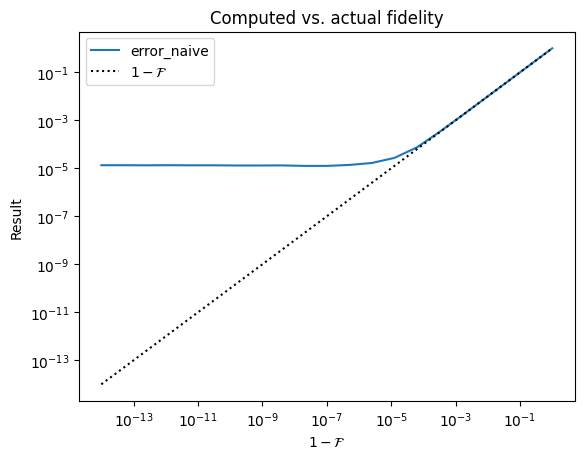
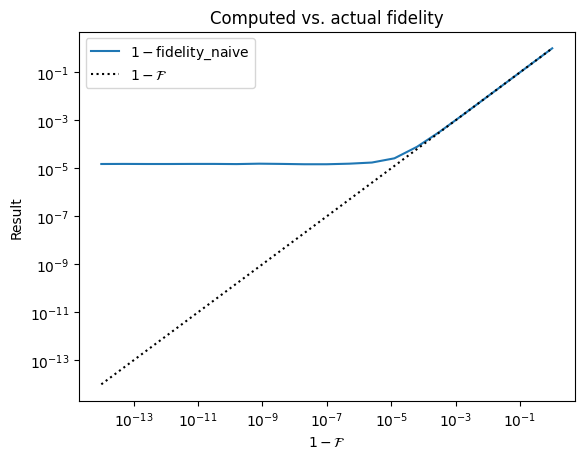
update blog  - add estimated read time  - update fidelity post

diff --git a/blog/posts/stable_fidelity/index.html b/blog/posts/stable_fidelity/index.html
@@ -191,6 +191,12 @@ window.Quarto = {
       </div>
     </div>
     
+      <div>
+      <div class="quarto-title-meta-heading">Modified</div>
+      <div class="quarto-title-meta-contents">
+        <p class="date-modified">October 24, 2024</p>
+      </div>
+    </div>
       
     </div>
     
@@ -216,16 +222,29 @@ TL;DR
 </div>
 </div>
 <div class="callout-body-container callout-body">
-<p>For two states <span class="math inline">\(\ket{a}\)</span> and <span class="math inline">\(\ket{b}\)</span>, let <span class="math inline">\(c = \braket{a|b}/|\braket{a|b}|\)</span> and <span class="math inline">\(e = |c\ket{a} - \ket{b}|^2\)</span> (the norm squared of the difference vector between <span class="math inline">\(c\ket{a}\)</span> and <span class="math inline">\(\ket{b}\)</span>). Then the fidelity <span class="math inline">\(\mathcal{F} = |\braket{a|b}|^2\)</span> can be computed with good numerical precision as <span class="math display">\[1 - \mathcal{F} = e - e^2/4\]</span></p>
+<p>For two states <span class="math inline">\(\ket{a}\)</span> and <span class="math inline">\(\ket{b}\)</span>, let <span class="math inline">\(c = \braket{a|b}/|\braket{a|b}|\)</span> and <span class="math inline">\(e = |c\ket{a} - \ket{b}|^2\)</span> (the norm squared of the difference vector between <span class="math inline">\(c\ket{a}\)</span> and <span class="math inline">\(\ket{b}\)</span>). Then the fidelity <span class="math inline">\(\mathcal{F} = |\braket{a|b}|^2\)</span> can be computed with good numerical precision as <span class="math display">\[\mathcal{F} = (1 - e/2)^2\]</span></p>
 </div>
 </div>
-<p>Suppose we want to examine the fidelity <span class="math inline">\(\mathcal{F} = |\braket{a|b}|^2\)</span> of two quantum states <span class="math inline">\(\ket{a}\)</span> and <span class="math inline">\(\ket{b}\)</span>, stored as vectors of complex numbers. If <span class="math inline">\(\ket{a}\)</span> and <span class="math inline">\(\ket{b}\)</span> are very close, it is more convenient to study the “error” <span class="math inline">\(\epsilon = 1-\mathcal{F}\)</span> rather than the fidelity itself. However, computing this value in the obvious way runs into problems with floating-point precision. Here’s a straightforward function computing <span class="math inline">\(1-\mathcal{F}\)</span>:</p>
-<div id="397ff548-795f-4f16-97f5-c76c3f201c5f" class="cell" data-execution_count="2">
-<div class="sourceCode cell-code" id="cb1"><pre class="sourceCode python code-with-copy"><code class="sourceCode python"><span id="cb1-1"><a href="#cb1-1" aria-hidden="true" tabindex="-1"></a><span class="kw">def</span> error_naive(a, b):</span>
-<span id="cb1-2"><a href="#cb1-2" aria-hidden="true" tabindex="-1"></a>    <span class="cf">return</span> <span class="dv">1</span> <span class="op">-</span> np.<span class="bu">abs</span>(np.vdot(a, b))<span class="op">**</span><span class="dv">2</span></span></code><button title="Copy to Clipboard" class="code-copy-button"><i class="bi"></i></button></pre></div>
+<div class="callout callout-style-default callout-note callout-titled">
+<div class="callout-header d-flex align-content-center">
+<div class="callout-icon-container">
+<i class="callout-icon"></i>
 </div>
-<p>Let’s try plotting the measured fidelity vs.&nbsp;actual fidelity, for a range of fidelities very close to 1:</p>
-<div id="94af671f-f95e-4ec8-a765-7c8818af27df" class="cell" data-execution_count="3">
+<div class="callout-title-container flex-fill">
+Note
+</div>
+</div>
+<div class="callout-body-container callout-body">
+<p>Some authors, including Nielsen and Chuang in their textbook, define the fidelity as <span class="math inline">\(\mathcal{F}' = |\braket{a|b}|\)</span>, which is the square root of the definition used in this blog post. The technique presented here can easily be adapted to that definition, as <span class="math inline">\(\mathcal{F}' = 1-e/2\)</span>.</p>
+</div>
+</div>
+<p>Suppose we want to examine the fidelity <span class="math inline">\(\mathcal{F} = |\braket{a|b}|^2\)</span> of two quantum states <span class="math inline">\(\ket{a}\)</span> and <span class="math inline">\(\ket{b}\)</span>, stored as vectors of complex numbers. If <span class="math inline">\(\ket{a}\)</span> and <span class="math inline">\(\ket{b}\)</span> are very close, computing this value in the obvious way runs into problems with floating-point precision, as we will find with this straightforward function for the fidelity:</p>
+<div id="397ff548-795f-4f16-97f5-c76c3f201c5f" class="cell" data-execution_count="1">
+<div class="sourceCode cell-code" id="cb1"><pre class="sourceCode python code-with-copy"><code class="sourceCode python"><span id="cb1-1"><a href="#cb1-1" aria-hidden="true" tabindex="-1"></a><span class="kw">def</span> fidelity_naive(a, b):</span>
+<span id="cb1-2"><a href="#cb1-2" aria-hidden="true" tabindex="-1"></a>    <span class="cf">return</span> np.<span class="bu">abs</span>(np.vdot(a, b))<span class="op">**</span><span class="dv">2</span></span></code><button title="Copy to Clipboard" class="code-copy-button"><i class="bi"></i></button></pre></div>
+</div>
+<p>Let’s try plotting the measured fidelity vs.&nbsp;actual fidelity, for a range of fidelities very close to 1. (Here we plot the difference from 1, so that we can see the results easily on a log plot).</p>
+<div id="94af671f-f95e-4ec8-a765-7c8818af27df" class="cell" data-execution_count="2">
 <details class="code-fold">
 <summary>Code</summary>
 <div class="sourceCode cell-code" id="cb2"><pre class="sourceCode python code-with-copy"><code class="sourceCode python"><span id="cb2-1"><a href="#cb2-1" aria-hidden="true" tabindex="-1"></a><span class="im">import</span> numpy <span class="im">as</span> np</span>
@@ -248,18 +267,18 @@ TL;DR
 <span id="cb2-18"><a href="#cb2-18" aria-hidden="true" tabindex="-1"></a></span>
 <span id="cb2-19"><a href="#cb2-19" aria-hidden="true" tabindex="-1"></a>    <span class="cf">return</span> a, b</span>
 <span id="cb2-20"><a href="#cb2-20" aria-hidden="true" tabindex="-1"></a></span>
-<span id="cb2-21"><a href="#cb2-21" aria-hidden="true" tabindex="-1"></a><span class="kw">def</span> plot_error_measure(dimension, x_min, x_max, n_pts, error_funcs):</span>
+<span id="cb2-21"><a href="#cb2-21" aria-hidden="true" tabindex="-1"></a><span class="kw">def</span> plot_fidelity_measure(dimension, x_min, x_max, n_pts, fidelity_funcs):</span>
 <span id="cb2-22"><a href="#cb2-22" aria-hidden="true" tabindex="-1"></a>    a, b <span class="op">=</span> generate_random_orthogonal_vectors(dimension)</span>
 <span id="cb2-23"><a href="#cb2-23" aria-hidden="true" tabindex="-1"></a>    </span>
 <span id="cb2-24"><a href="#cb2-24" aria-hidden="true" tabindex="-1"></a>    pts <span class="op">=</span> np.geomspace(x_min, x_max, n_pts)</span>
 <span id="cb2-25"><a href="#cb2-25" aria-hidden="true" tabindex="-1"></a></span>
-<span id="cb2-26"><a href="#cb2-26" aria-hidden="true" tabindex="-1"></a>    <span class="cf">for</span> error_func <span class="kw">in</span> error_funcs:</span>
+<span id="cb2-26"><a href="#cb2-26" aria-hidden="true" tabindex="-1"></a>    <span class="cf">for</span> fidelity_func <span class="kw">in</span> fidelity_funcs:</span>
 <span id="cb2-27"><a href="#cb2-27" aria-hidden="true" tabindex="-1"></a>        results <span class="op">=</span> []</span>
 <span id="cb2-28"><a href="#cb2-28" aria-hidden="true" tabindex="-1"></a>        <span class="cf">for</span> target_err <span class="kw">in</span> pts:</span>
 <span id="cb2-29"><a href="#cb2-29" aria-hidden="true" tabindex="-1"></a>            c <span class="op">=</span> np.sqrt(target_err)<span class="op">*</span>b <span class="op">+</span> np.sqrt(<span class="dv">1</span><span class="op">-</span>target_err)<span class="op">*</span>a</span>
-<span id="cb2-30"><a href="#cb2-30" aria-hidden="true" tabindex="-1"></a>            results.append(error_func(a, c))</span>
+<span id="cb2-30"><a href="#cb2-30" aria-hidden="true" tabindex="-1"></a>            results.append(fidelity_func(a, c))</span>
 <span id="cb2-31"><a href="#cb2-31" aria-hidden="true" tabindex="-1"></a></span>
-<span id="cb2-32"><a href="#cb2-32" aria-hidden="true" tabindex="-1"></a>        plt.loglog(pts, results, label<span class="op">=</span>error_func.<span class="va">__name__</span>)</span>
+<span id="cb2-32"><a href="#cb2-32" aria-hidden="true" tabindex="-1"></a>        plt.loglog(pts, <span class="dv">1</span><span class="op">-</span>np.array(results), label<span class="op">=</span><span class="vs">r"$1 - $"</span><span class="op">+</span>fidelity_func.<span class="va">__name__</span>)</span>
 <span id="cb2-33"><a href="#cb2-33" aria-hidden="true" tabindex="-1"></a>    </span>
 <span id="cb2-34"><a href="#cb2-34" aria-hidden="true" tabindex="-1"></a>    plt.loglog(pts, pts, color<span class="op">=</span><span class="st">'k'</span>, linestyle<span class="op">=</span><span class="st">':'</span>, label<span class="op">=</span><span class="vs">r'$1 - \mathcal</span><span class="sc">{F}</span><span class="vs">$'</span>)</span>
 <span id="cb2-35"><a href="#cb2-35" aria-hidden="true" tabindex="-1"></a></span>
@@ -270,12 +289,12 @@ TL;DR
 <span id="cb2-40"><a href="#cb2-40" aria-hidden="true" tabindex="-1"></a></span>
 <span id="cb2-41"><a href="#cb2-41" aria-hidden="true" tabindex="-1"></a>    plt.legend()</span>
 <span id="cb2-42"><a href="#cb2-42" aria-hidden="true" tabindex="-1"></a></span>
-<span id="cb2-43"><a href="#cb2-43" aria-hidden="true" tabindex="-1"></a>plot_error_measure(</span>
+<span id="cb2-43"><a href="#cb2-43" aria-hidden="true" tabindex="-1"></a>plot_fidelity_measure(</span>
 <span id="cb2-44"><a href="#cb2-44" aria-hidden="true" tabindex="-1"></a>    dimension<span class="op">=</span><span class="dv">2</span><span class="op">**</span><span class="dv">20</span>, </span>
 <span id="cb2-45"><a href="#cb2-45" aria-hidden="true" tabindex="-1"></a>    x_min<span class="op">=</span><span class="fl">1E-14</span>, </span>
 <span id="cb2-46"><a href="#cb2-46" aria-hidden="true" tabindex="-1"></a>    x_max<span class="op">=</span><span class="dv">1</span>, </span>
 <span id="cb2-47"><a href="#cb2-47" aria-hidden="true" tabindex="-1"></a>    n_pts<span class="op">=</span><span class="dv">21</span>, </span>
-<span id="cb2-48"><a href="#cb2-48" aria-hidden="true" tabindex="-1"></a>    error_funcs<span class="op">=</span>[error_naive]</span>
+<span id="cb2-48"><a href="#cb2-48" aria-hidden="true" tabindex="-1"></a>    fidelity_funcs<span class="op">=</span>[fidelity_naive]</span>
 <span id="cb2-49"><a href="#cb2-49" aria-hidden="true" tabindex="-1"></a>)</span></code><button title="Copy to Clipboard" class="code-copy-button"><i class="bi"></i></button></pre></div>
 </details>
 <div class="cell-output cell-output-display">
@@ -286,38 +305,40 @@ TL;DR
 </div>
 </div>
 </div>
-<p>The reason for the discrepancy is that in the inner product, we are summing values <span class="math inline">\(a_i^\dagger b_i\)</span> that have magnitude <span class="math inline">\(\mathcal{O}(1/d)\)</span>, but the “important part” of each term (that prevents the sum from being exactly 1) is of order <span class="math inline">\(\mathcal{O}(\epsilon/d)\)</span>. If <span class="math inline">\(\epsilon\)</span> is very small, this “content” will be lost to floating point errors. Instead, we’d like to figure out a way to sum that content we care about directly.</p>
+<p>The reason for the discrepancy is that in the inner product, we are summing values <span class="math inline">\(a_i^* b_i\)</span> that have magnitude <span class="math inline">\(\mathcal{O}(1/d)\)</span>, but the “important part” of each term (that prevents the sum from being exactly 1) is of order <span class="math inline">\(\mathcal{O}(\epsilon/d)\)</span>, where <span class="math inline">\(\epsilon = 1-\mathcal{F}\)</span>. If <span class="math inline">\(\epsilon\)</span> is very small, this “content” will be lost to floating point errors. Instead, we’d like to figure out a way to sum that content we care about directly.</p>
 <p>Consider the following fact: <span class="math display">\[
 |\ket{a}-\ket{b}|^2 = 2 - 2\mathrm{Re}\left[ \braket{a | b} \right]
-\]</span> So, the square of the norm of the difference gives the ~vibes~ of <span class="math inline">\(\sqrt{\epsilon} = |\braket{a|b}|\)</span>, except it cares about the relative phase between <span class="math inline">\(\ket{a}\)</span> and <span class="math inline">\(\ket{b}\)</span>. The upside is that it should be numerically stable to compute, because the elements of the difference vector will be of order <span class="math inline">\(\mathcal{O}(\epsilon/d)\)</span>. The key idea is that we can use it to measure <span class="math inline">\(\epsilon\)</span> if we ensure there is no relative phase between <span class="math inline">\(\ket{a}\)</span> and <span class="math inline">\(\ket{b}\)</span>.</p>
+\]</span> So, the square of the norm of the difference gives the ~vibes~ of <span class="math inline">\(1 - \left|\braket{a|b}\right|\)</span>, except it cares about the relative phase between <span class="math inline">\(\ket{a}\)</span> and <span class="math inline">\(\ket{b}\)</span>. The upshot is that it should be numerically stable to compute, because the elements of the difference vector will be of order <span class="math inline">\(\mathcal{O}(\epsilon/d)\)</span>. The key idea is that we can use it to measure <span class="math inline">\(|\braket{a|b}|\)</span> if we ensure there is no relative phase between <span class="math inline">\(\ket{a}\)</span> and <span class="math inline">\(\ket{b}\)</span>.</p>
 <p>Let <span class="math inline">\(c = \braket{a|b}/|\braket{a|b}|\)</span>. Then by construction <span class="math inline">\(\braket{c a | b} = |\braket{a | b}| = \mathrm{Re}\left[ \braket{c a | b} \right]\)</span>. Combining this with the above, we may define <span class="math inline">\(e = |c \ket{a}-\ket{b}|^2\)</span> and then: <span class="math display">\[
 |\braket{a | b}| = 1 - e/2
 \]</span> and thus <span class="math display">\[
-1-\mathcal{F} = 1 - |\braket{a|b}|^2 = e - e^2/4
+\mathcal{F} = |\braket{a|b}|^2 = (1 - e/2)^2
+\]</span> or, if we’re interested in the difference from 1, <span class="math display">\[
+1-\mathcal{F} = e - e^2/4
 \]</span> This is an exact expression (we didn’t use any approximations to get it), but it also will not suffer from numerical instability for values close to zero.</p>
 <p>Pretty cool! Let’s try it:</p>
-<div id="2bcad248-6ebc-4856-b309-7871ab7c28a3" class="cell" data-execution_count="6">
-<div class="sourceCode cell-code" id="cb3"><pre class="sourceCode python code-with-copy"><code class="sourceCode python"><span id="cb3-1"><a href="#cb3-1" aria-hidden="true" tabindex="-1"></a><span class="kw">def</span> error_precise(a, b):</span>
+<div id="2bcad248-6ebc-4856-b309-7871ab7c28a3" class="cell" data-execution_count="3">
+<div class="sourceCode cell-code" id="cb3"><pre class="sourceCode python code-with-copy"><code class="sourceCode python"><span id="cb3-1"><a href="#cb3-1" aria-hidden="true" tabindex="-1"></a><span class="kw">def</span> fidelity_precise(a, b):</span>
 <span id="cb3-2"><a href="#cb3-2" aria-hidden="true" tabindex="-1"></a>    inner_prod <span class="op">=</span> np.vdot(a, b)</span>
 <span id="cb3-3"><a href="#cb3-3" aria-hidden="true" tabindex="-1"></a></span>
 <span id="cb3-4"><a href="#cb3-4" aria-hidden="true" tabindex="-1"></a>    <span class="co"># to avoid division by zero</span></span>
 <span id="cb3-5"><a href="#cb3-5" aria-hidden="true" tabindex="-1"></a>    <span class="cf">if</span> inner_prod <span class="op">==</span> <span class="dv">0</span>:</span>
-<span id="cb3-6"><a href="#cb3-6" aria-hidden="true" tabindex="-1"></a>        <span class="cf">return</span> <span class="fl">1.0</span></span>
+<span id="cb3-6"><a href="#cb3-6" aria-hidden="true" tabindex="-1"></a>        <span class="cf">return</span> <span class="fl">0.0</span></span>
 <span id="cb3-7"><a href="#cb3-7" aria-hidden="true" tabindex="-1"></a>        </span>
 <span id="cb3-8"><a href="#cb3-8" aria-hidden="true" tabindex="-1"></a>    c <span class="op">=</span> inner_prod <span class="op">/</span> np.<span class="bu">abs</span>(inner_prod)</span>
 <span id="cb3-9"><a href="#cb3-9" aria-hidden="true" tabindex="-1"></a>    diff <span class="op">=</span> c<span class="op">*</span>a <span class="op">-</span> b</span>
 <span id="cb3-10"><a href="#cb3-10" aria-hidden="true" tabindex="-1"></a>    e <span class="op">=</span> np.real(np.vdot(diff, diff))  <span class="co"># imag part is zero</span></span>
-<span id="cb3-11"><a href="#cb3-11" aria-hidden="true" tabindex="-1"></a>    <span class="cf">return</span> e <span class="op">-</span> e<span class="op">**</span><span class="dv">2</span> <span class="op">/</span> <span class="dv">4</span></span></code><button title="Copy to Clipboard" class="code-copy-button"><i class="bi"></i></button></pre></div>
+<span id="cb3-11"><a href="#cb3-11" aria-hidden="true" tabindex="-1"></a>    <span class="cf">return</span> (<span class="dv">1</span><span class="op">-</span>e<span class="op">/</span><span class="dv">2</span>)<span class="op">**</span><span class="dv">2</span></span></code><button title="Copy to Clipboard" class="code-copy-button"><i class="bi"></i></button></pre></div>
 </div>
-<div id="d2e86ca1-ed2c-4ad5-a9ae-66b61349eeb8" class="cell" data-execution_count="7">
+<div id="d2e86ca1-ed2c-4ad5-a9ae-66b61349eeb8" class="cell" data-execution_count="4">
 <details class="code-fold">
 <summary>Code</summary>
-<div class="sourceCode cell-code" id="cb4"><pre class="sourceCode python code-with-copy"><code class="sourceCode python"><span id="cb4-1"><a href="#cb4-1" aria-hidden="true" tabindex="-1"></a>plot_error_measure(</span>
+<div class="sourceCode cell-code" id="cb4"><pre class="sourceCode python code-with-copy"><code class="sourceCode python"><span id="cb4-1"><a href="#cb4-1" aria-hidden="true" tabindex="-1"></a>plot_fidelity_measure(</span>
 <span id="cb4-2"><a href="#cb4-2" aria-hidden="true" tabindex="-1"></a>    dimension<span class="op">=</span><span class="dv">2</span><span class="op">**</span><span class="dv">20</span>, </span>
 <span id="cb4-3"><a href="#cb4-3" aria-hidden="true" tabindex="-1"></a>    x_min<span class="op">=</span><span class="fl">1E-14</span>, </span>
 <span id="cb4-4"><a href="#cb4-4" aria-hidden="true" tabindex="-1"></a>    x_max<span class="op">=</span><span class="dv">1</span>, </span>
 <span id="cb4-5"><a href="#cb4-5" aria-hidden="true" tabindex="-1"></a>    n_pts<span class="op">=</span><span class="dv">21</span>, </span>
-<span id="cb4-6"><a href="#cb4-6" aria-hidden="true" tabindex="-1"></a>    error_funcs<span class="op">=</span>[error_naive, error_precise]</span>
+<span id="cb4-6"><a href="#cb4-6" aria-hidden="true" tabindex="-1"></a>    fidelity_funcs<span class="op">=</span>[fidelity_naive, fidelity_precise]</span>
 <span id="cb4-7"><a href="#cb4-7" aria-hidden="true" tabindex="-1"></a>)</span></code><button title="Copy to Clipboard" class="code-copy-button"><i class="bi"></i></button></pre></div>
 </details>
 <div class="cell-output cell-output-display">

diff --git a/blog/index.html b/blog/index.html
@@ -78,7 +78,7 @@ ul.task-list li input[type="checkbox"] {
     }
 
     const options = {
-      valueNames: ['listing-date','listing-title','listing-author','listing-image','listing-description','listing-categories',{ data: ['index'] },{ data: ['categories'] },{ data: ['listing-date-sort'] },{ data: ['listing-file-modified-sort'] }],
+      valueNames: ['listing-image','listing-date','listing-title','listing-author','listing-description','listing-categories','listing-reading-time',{ data: ['index'] },{ data: ['categories'] },{ data: ['listing-date-sort'] },{ data: ['listing-file-modified-sort'] }],
       
       searchColumns: ["listing-date","listing-title","listing-author","listing-image","listing-description","listing-categories"],
     };
@@ -210,6 +210,9 @@ retro computing
 <div class="listing-date">
 Oct 24, 2024
 </div>
+<div class="listing-reading-time">
+9 min
+</div>
 </a>
 </div>
 </div>
@@ -246,10 +249,13 @@ dumb stuff with computers
 <div class="listing-date">
 Oct 12, 2024
 </div>
+<div class="listing-reading-time">
+2 min
+</div>
 </a>
 </div>
 </div>
-<div class="quarto-post image-right" data-index="2" data-categories="quantum,numerics" data-listing-date-sort="1728554400000" data-listing-file-modified-sort="1729802788635" data-listing-date-modified-sort="NaN" data-listing-reading-time-sort="2" data-listing-word-count-sort="360">
+<div class="quarto-post image-right" data-index="2" data-categories="quantum,numerics" data-listing-date-sort="1728554400000" data-listing-file-modified-sort="1729806956425" data-listing-date-modified-sort="1729764000000" data-listing-reading-time-sort="3" data-listing-word-count-sort="424">
 <div class="thumbnail">
 <p><a href="./posts/stable_fidelity/index.html" class="no-external"></a></p><a href="./posts/stable_fidelity/index.html" class="no-external">
 <p class="card-img-top"><img src="posts/stable_fidelity/index_files/figure-html/cell-3-output-1.png"  class="thumbnail-image card-img"/></p>
@@ -278,6 +284,9 @@ numerics
 <a href="./posts/stable_fidelity/index.html" class="no-external">
 <div class="listing-date">
 Oct 10, 2024
+</div>
+<div class="listing-reading-time">
+3 min
 </div>
 </a>
 </div>

diff --git a/blog/posts/bugout/index.html b/blog/posts/bugout/index.html
@@ -719,7 +719,7 @@ window.document.addEventListener("DOMContentLoaded", function (event) {
 });
 </script>
 </div> <!-- /content -->
-<script>var lightboxQuarto = GLightbox({"loop":false,"closeEffect":"zoom","descPosition":"bottom","selector":".lightbox","openEffect":"zoom"});
+<script>var lightboxQuarto = GLightbox({"loop":false,"selector":".lightbox","descPosition":"bottom","closeEffect":"zoom","openEffect":"zoom"});
 (function() {
   let previousOnload = window.onload;
   window.onload = () => {
